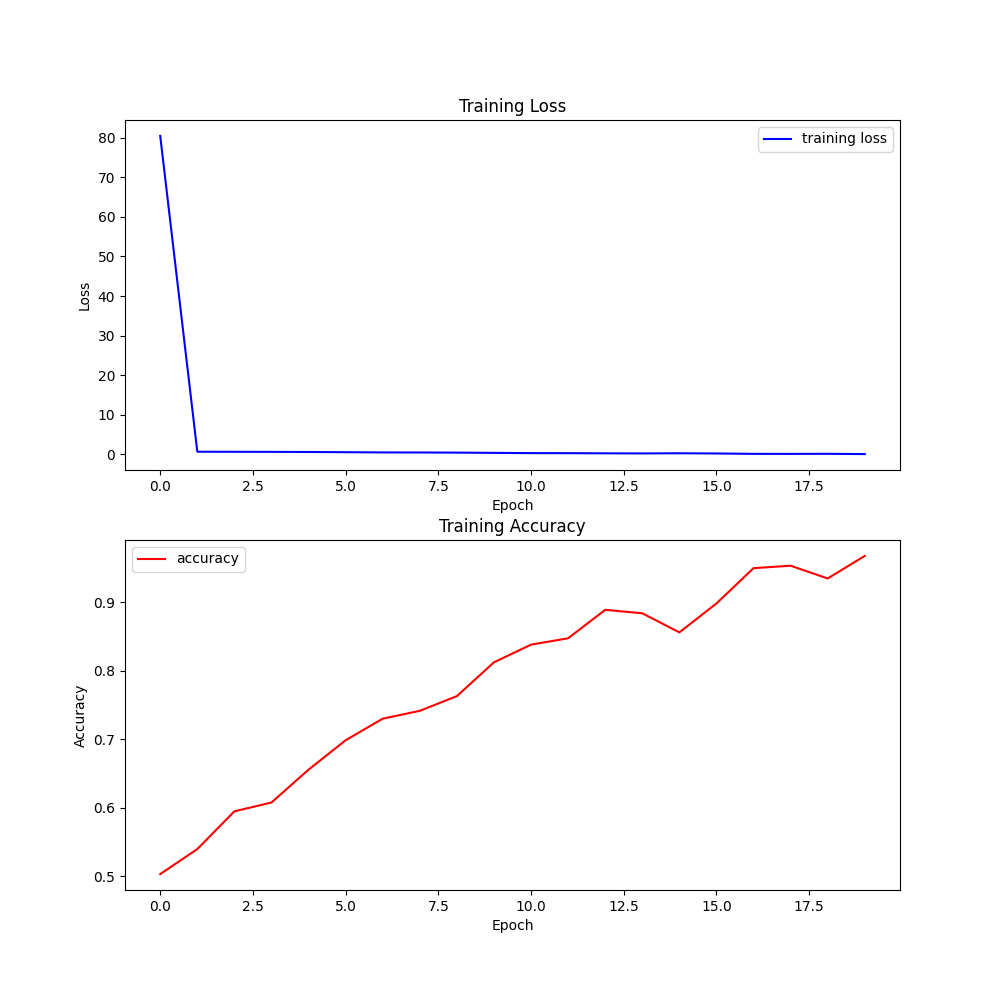
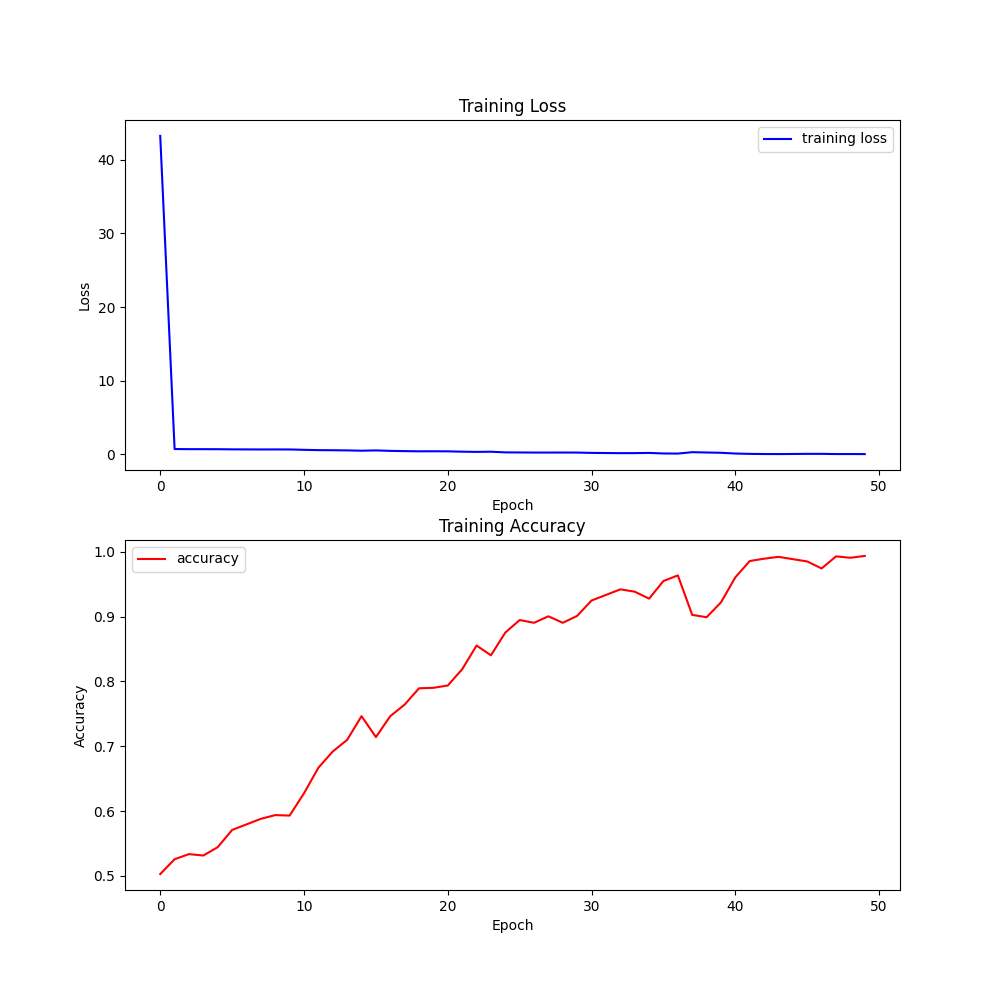
[CREATE] Create feature maps visualize function for CNN

diff --git a/1_CatDog_Project/CNN/training_color_model.py b/1_CatDog_Project/CNN/training_color_model.py
@@ -7,6 +7,8 @@ from keras.models import Sequential
 from keras.layers import Dense, Dropout, Activation, Flatten, Input
 from keras.layers import Conv2D, MaxPool2D
 import matplotlib.pyplot as plt
+from sklearn.metrics import confusion_matrix
+import seaborn as sns
 import numpy as np
 
 # Start time counting
@@ -68,27 +70,54 @@ print("Define model ...")
 # model.add(Dense(units=2, activation="softmax"))
 
 #LeNet
-name_of_model = "LeNet"
+# name_of_model = "LeNet"
+# model = Sequential()
+# model.add(Input(shape=(224, 224, 3)))
+# model.add(Conv2D(filters=16, kernel_size=(3, 3), activation="relu", padding="same"))
+# model.add(MaxPool2D(pool_size=(2, 2)))
+
+# model.add(Conv2D(filters=32, kernel_size=(3, 3), activation="relu", padding="same"))
+# model.add(MaxPool2D(pool_size=(2, 2)))
+
+# model.add(Conv2D(filters=64, kernel_size=(3, 3), activation="relu", padding="same"))
+# model.add(MaxPool2D(pool_size=(2, 2)))
+
+# model.add(Conv2D(filters=128, kernel_size=(3, 3), activation="relu", padding="same"))
+# model.add(MaxPool2D(pool_size=(2, 2)))
+
+# model.add(Conv2D(filters=128, kernel_size=(3, 3), activation="relu", padding="same"))
+# model.add(MaxPool2D(pool_size=(2, 2)))
+
+# model.add(Flatten())
+# model.add(Dense(units=4096, activation="relu"))
+# model.add(Dense(units=1024, activation="relu"))
+# model.add(Dense(units=2, activation="softmax"))
+
+#VGG11
+name_of_model = "VGG11"
 model = Sequential()
 model.add(Input(shape=(224, 224, 3)))
-model.add(Conv2D(filters=16, kernel_size=(3, 3), activation="relu", padding="same"))
-model.add(MaxPool2D(pool_size=(2, 2)))
-
-model.add(Conv2D(filters=32, kernel_size=(3, 3), activation="relu", padding="same"))
-model.add(MaxPool2D(pool_size=(2, 2)))
-
 model.add(Conv2D(filters=64, kernel_size=(3, 3), activation="relu", padding="same"))
 model.add(MaxPool2D(pool_size=(2, 2)))
 
 model.add(Conv2D(filters=128, kernel_size=(3, 3), activation="relu", padding="same"))
 model.add(MaxPool2D(pool_size=(2, 2)))
 
-model.add(Conv2D(filters=128, kernel_size=(3, 3), activation="relu", padding="same"))
+model.add(Conv2D(filters=256, kernel_size=(3, 3), activation="relu", padding="same"))
+# model.add(Conv2D(filters=256, kernel_size=(3, 3), activation="relu", padding="same"))
+model.add(MaxPool2D(pool_size=(2, 2)))
+
+model.add(Conv2D(filters=512, kernel_size=(3, 3), activation="relu", padding="same"))
+# model.add(Conv2D(filters=512, kernel_size=(3, 3), activation="relu", padding="same"))
+model.add(MaxPool2D(pool_size=(2, 2)))
+
+model.add(Conv2D(filters=512, kernel_size=(3, 3), activation="relu", padding="same"))
+# model.add(Conv2D(filters=512, kernel_size=(3, 3), activation="relu", padding="same"))
 model.add(MaxPool2D(pool_size=(2, 2)))
 
 model.add(Flatten())
 model.add(Dense(units=4096, activation="relu"))
-model.add(Dense(units=1024, activation="relu"))
+model.add(Dense(units=4096, activation="relu"))
 model.add(Dense(units=2, activation="softmax"))
 
 model.summary()
@@ -104,13 +133,13 @@ model.compile(loss='categorical_crossentropy', optimizer="adam", metrics=["accur
 
 print(len(train_x), len(train_y))
 
-H = model.fit(train_x, train_y, batch_size=64, epochs=20, verbose=1)
+num_of_epochs = 50
+H = model.fit(train_x, train_y, batch_size=64, epochs=num_of_epochs, verbose=1)
 
 print("Saving model ...")
 model.save("./data/" + name_of_model + "_CNN_model.h5")
 
 print("Loss and Accuracy ...")
-num_of_epochs = 20
 fig, axes = plt.subplots(2, 1, figsize=(10, 10))
 
 # Plot training loss
@@ -130,6 +159,42 @@ fig.savefig("./image/" + name_of_model + '_accuracy_loss_plot.png')
 
 score = model.evaluate(test_x, test_y, verbose=0)
 print(score)
+
+
+print("Evaluation ...")
+# Dự đoán nhãn cho cả tập huấn luyện và tập kiểm tra
+# train_predictions = model.predict(train_x)
+test_predictions = model.predict(test_x)
+
+# Chuyển đổi dự đoán từ dạng one-hot encoding sang nhãn đơn giản
+# train_predictions_labels = np.argmax(train_predictions, axis=1)
+test_predictions_labels = np.argmax(test_predictions, axis=1)
+# train_true_labels = np.argmax(train_y, axis=1)
+test_true_labels = np.argmax(test_y, axis=1)
+
+# Tính toán confusion matrix cho cả tập huấn luyện và tập kiểm tra
+# train_conf_matrix = confusion_matrix(train_true_labels, train_predictions_labels)
+test_conf_matrix = confusion_matrix(test_true_labels, test_predictions_labels)
+
+# Cộng confusion matrix của tập huấn luyện và tập kiểm tra lại với nhau
+# total_conf_matrix = train_conf_matrix + test_conf_matrix
+total_conf_matrix = test_conf_matrix
+
+# Tính toán confusion matrix
+conf_matrix = total_conf_matrix
+
+# Hiển thị confusion matrix bằng seaborn
+plt.figure(figsize=(8, 6))
+sns.heatmap(conf_matrix, annot=True, fmt="d", cmap="Blues", 
+            xticklabels=["Class 0", "Class 1"], yticklabels=["Class 0", "Class 1"])
+plt.xlabel('Predicted labels')
+plt.ylabel('True labels')
+plt.title('Confusion Matrix (Total)')
+# Lưu hình ảnh
+plt.savefig("./image/" + name_of_model + "_confusion_matrix.png")
+# Hiển thị hình ảnh
+plt.show()
+
 
 # End and calculate time
 end_time = time.time()

diff --git a/1_CatDog_Project/CNN/visualize_feature.py b/1_CatDog_Project/CNN/visualize_feature.py
@@ -1,0 +1,92 @@
+from tensorflow.keras.preprocessing.image import load_img
+from tensorflow.keras.preprocessing.image import img_to_array
+from tensorflow.keras.models import Model, load_model
+import matplotlib.pyplot as plt
+from numpy import expand_dims
+import joblib
+import cv2
+
+
+print("Loading image ...")
+cat_bgr = joblib.load("./data/cat_bgr.joblib")
+dog_bgr = joblib.load("./data/dog_bgr.joblib")
+image = dog_bgr[200]
+image = cv2.resize(image, (224, 224))
+
+print("Loading model ...")
+model_name = "VGG11"
+model = load_model("./data/" + model_name + "_CNN_model.h5")
+print(model.summary())
+
+print("\nModel's layer ...")
+# for layer in model.layers:
+#     if 'conv' not in layer.name:
+#         continue    
+#     filters , bias = layer.get_weights()
+#     print(layer.name , filters.shape)
+
+# filters , bias = model.layers[0].get_weights()
+
+# # normalize filter values to 0-1 so we can visualize them
+# f_min, f_max = filters.min(), filters.max()
+# filters = (filters - f_min) / (f_max - f_min)
+
+# n_filters = 16
+# ix=1
+# fig = plt.figure(figsize=(20,15))
+# for i in range(n_filters):
+#     # get the filters
+#     f = filters[:,:,:,i]
+#     for j in range(3):
+#         # subplot for 6 filters and 3 channels
+#         plt.subplot(n_filters,3,ix)
+#         plt.imshow(f[:,:,j] ,cmap='gray')
+#         ix+=1
+# #plot the filters 
+# plt.show()
+
+blocks = []
+
+for i in range(len(model.layers)):
+    layer = model.layers[i]
+    if 'conv' not in layer.name:
+        continue    
+    print(i , layer.name , layer.output.shape)
+    blocks.append(i)
+
+outputs = [model.layers[i].output for i in blocks]
+
+model = Model(inputs=model.inputs , outputs=outputs)
+# convert the image to an array
+image = img_to_array(image)
+# expand dimensions so that it represents a single 'sample'
+image = expand_dims(image, axis=0)
+
+features_map = model.predict(image)
+
+for i, fmap in zip(blocks, features_map):
+    fig = plt.figure(figsize=(20, 15))
+    fig.suptitle("BLOCK_{}".format(i), fontsize=20)
+    num_maps = fmap.shape[3]
+    max_cols = 8
+    max_rows = (num_maps + max_cols - 1) // max_cols  # Số hàng được giới hạn theo số cột tối đa
+
+    for j in range(1, max_rows * max_cols + 1):
+        if j <= num_maps:
+            plt.subplot(max_rows, max_cols, j)
+            if j <= fmap.shape[3]:
+                plt.imshow(fmap[0, :, :, j - 1])
+                plt.title("Map {}".format(j - 1))  # Hiển thị chỉ số của feature map
+            else:
+                plt.axis('off')  # Tắt trục nếu không có đủ feature map để điền vào ô trống
+        else:
+            plt.axis('off')  # Tắt trục nếu không có đủ feature map để điền vào ô trống
+    
+    # Lưu hình ảnh của block vào file
+    block_filename = "./image/{}_block{}.png".format(model_name, i)
+    plt.savefig(block_filename)
+    plt.close(fig)
+
+
+plt.show()
+    

diff --git a/1_CatDog_Project/SIFT/bovw.py b/1_CatDog_Project/SIFT/bovw.py
@@ -26,7 +26,7 @@ def build_codebook(descriptors, n_codewords=200):
     # kmeans = faiss.Kmeans(d, ncentroids, niter=niter, verbose=verbose)
     # kmeans.train(x)
 
-    kmeans = KMeans(n_clusters=n_codewords, random_state=0).fit(all_descriptors)
+    kmeans = KMeans(n_clusters=n_codewords, random_state=0, n_init="auto").fit(all_descriptors)
     
     # 3. Return centroids
     return kmeans.cluster_centers_

diff --git a/1_CatDog_Project/SIFT/training_model.py b/1_CatDog_Project/SIFT/training_model.py
@@ -64,6 +64,7 @@ sns.heatmap(conf_matrix, annot=True, fmt="d", cmap="Blues",
 plt.xlabel('Predicted labels')
 plt.ylabel('True labels')
 plt.title('Confusion Matrix')
+plt.savefig('./image/confusion_matrix.png')
 plt.show()
 
 
